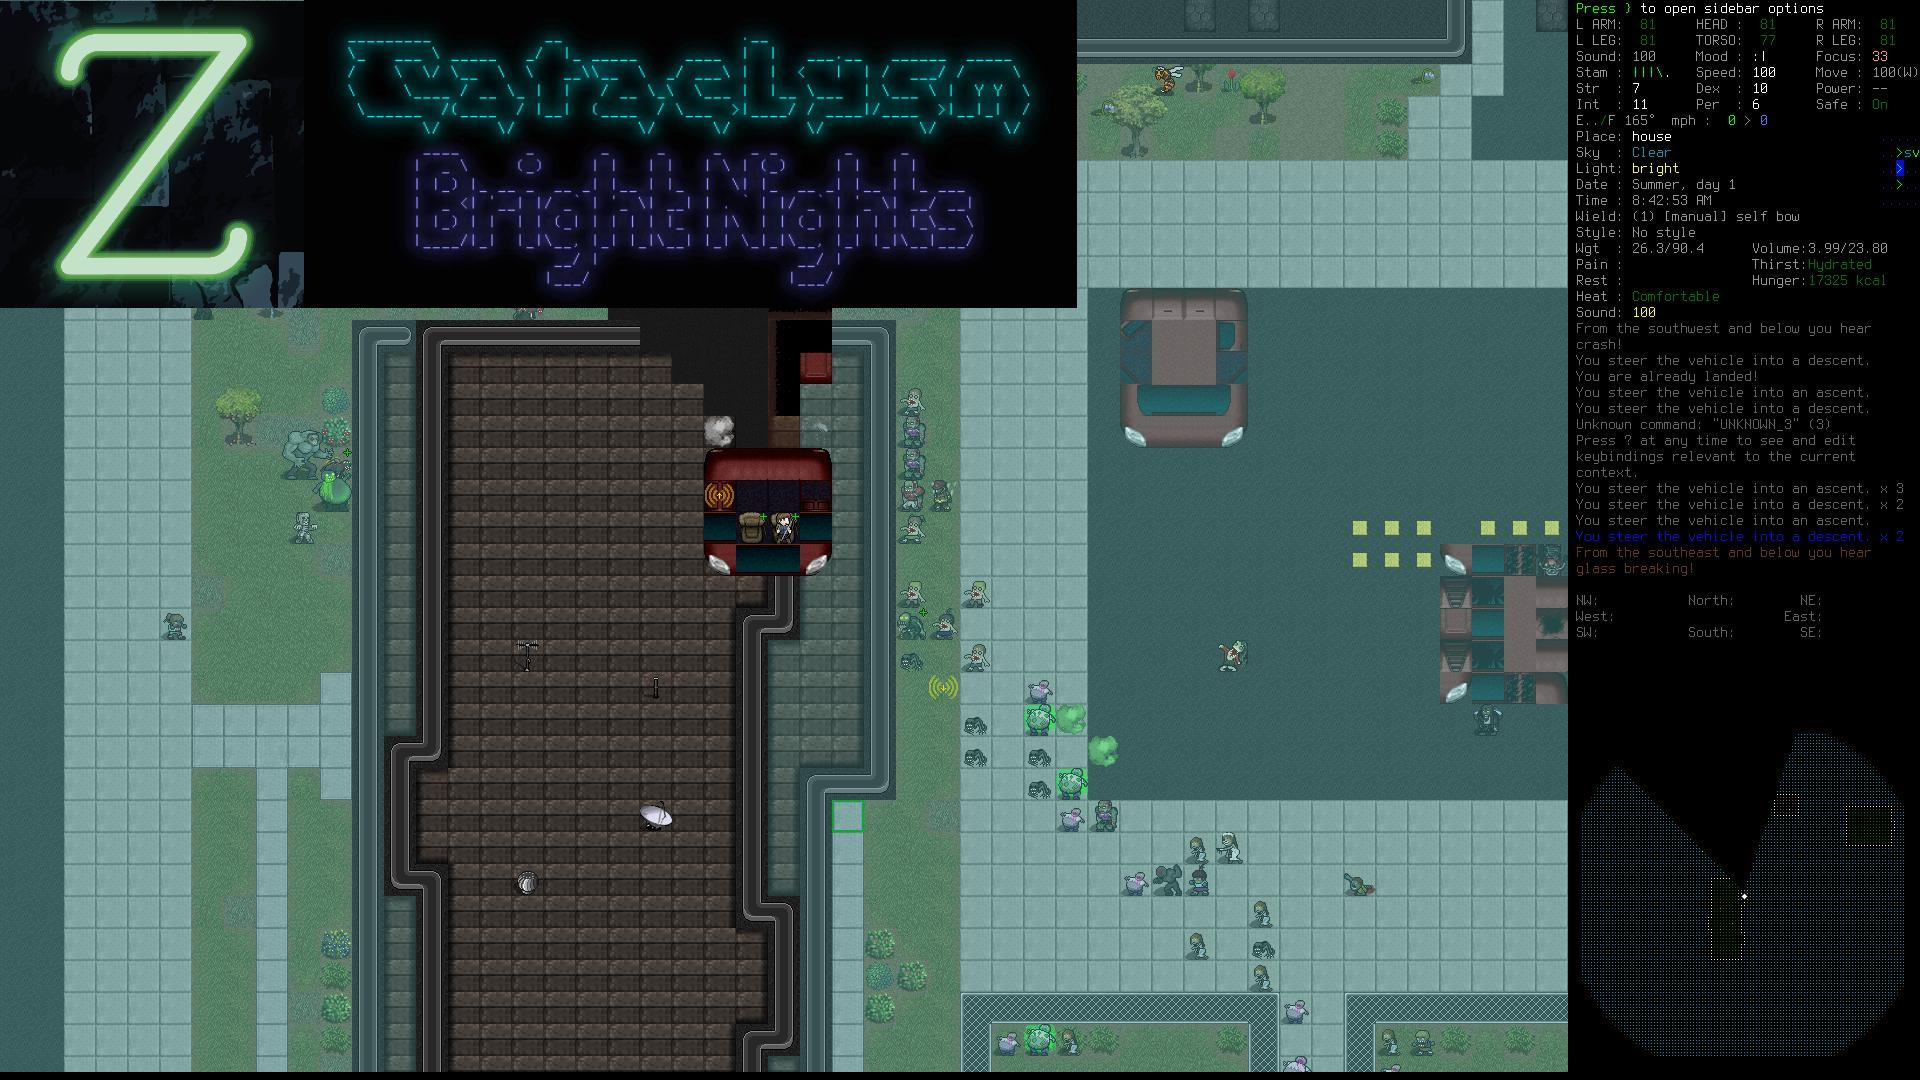
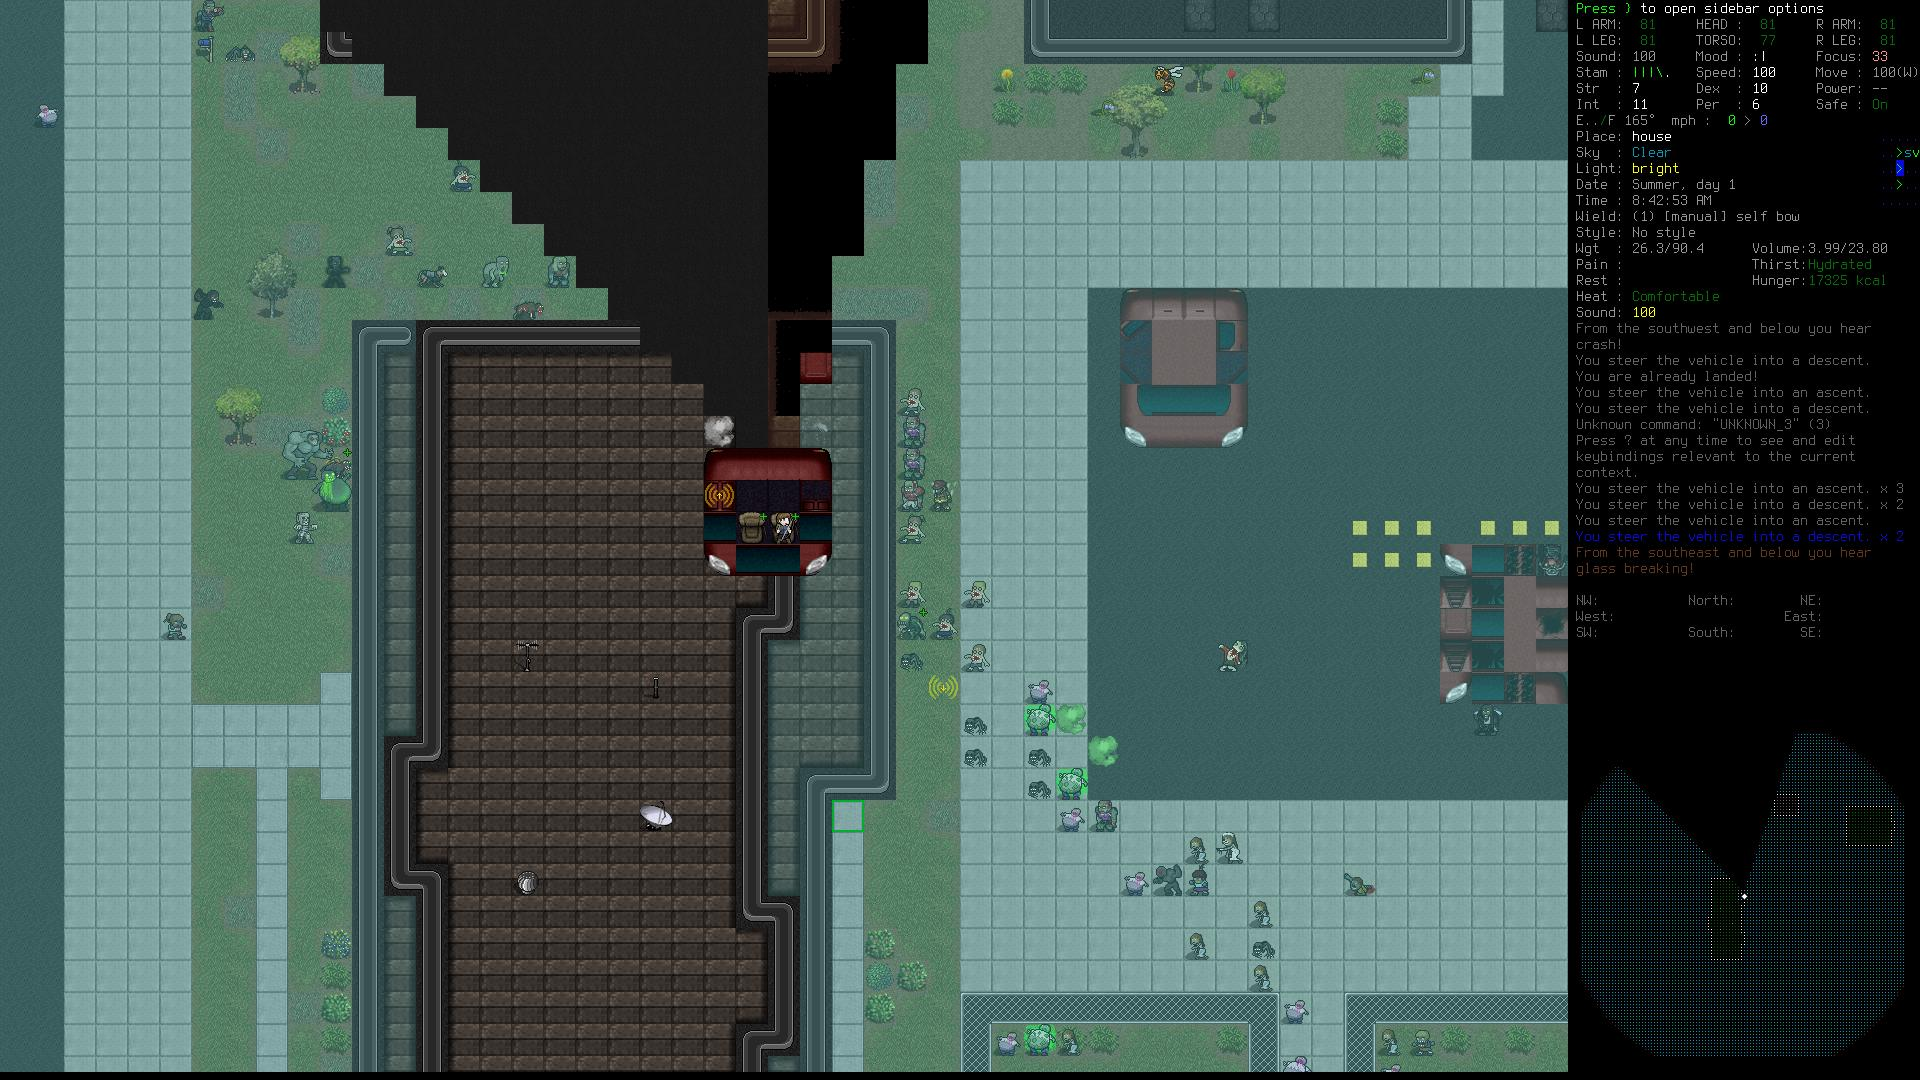
docs: update screenshot to one taken by jove

Changed region(s): [[0.0, 0.0, 0.5625, 0.3056]]

diff --git a/README.md b/README.md
@@ -1,7 +1,7 @@
 # Cataclysm: Bright Nights
 
 <a align="center" href="https://www.reddit.com/r/cataclysmbn/comments/xmtrxq/cbn_changelog_september_24_2022_draw_lower_z/">
-  <img src="doc/img/readme-title.jpg" title="screenshot taken by Firestorm_01">
+  <img src="doc/img/readme-title.jpg" title="screenshot taken by joveeater">
 </a>
 
 Cataclysm: Bright Nights is a roguelike with sci-fi elements set in a post-apocalyptic world.
